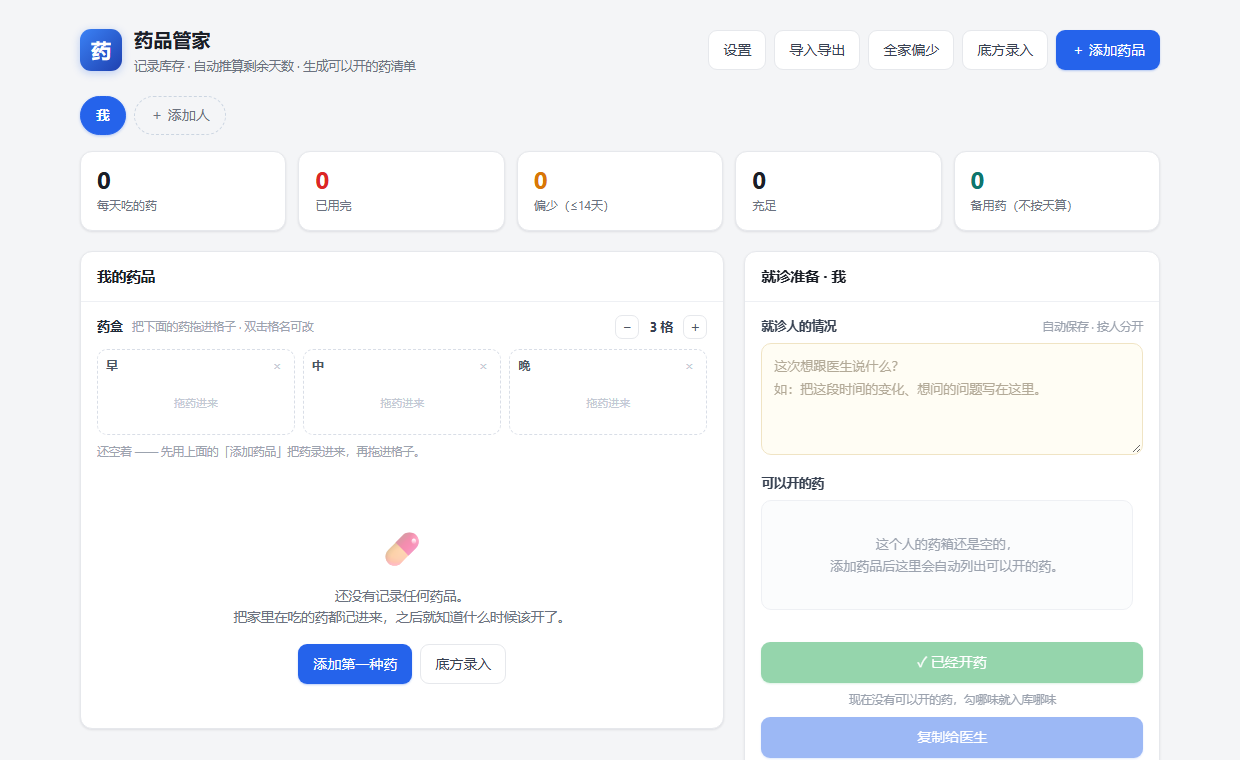
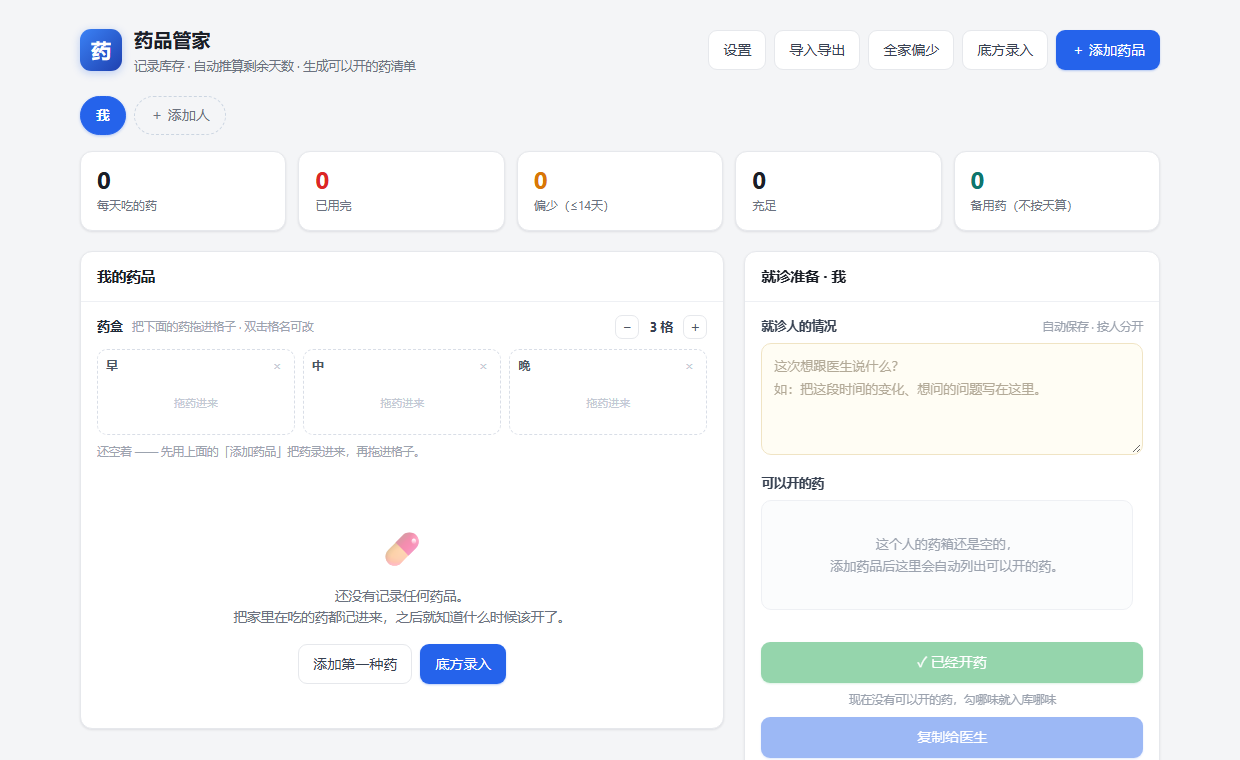
空状态主按钮换成底方录入；版本 3.6

Changed region(s): [[0.2145, 0.8474, 0.429, 0.9079]]

diff --git a/index.html b/index.html
@@ -2521,8 +2521,10 @@ function renderList(){
       + '<div class="big">💊</div>'
       + '<p>还没有记录任何药品。<br>把家里在吃的药都记进来，之后就知道什么时候该开了。</p>'
       + '<div class="row">'
-      + '<button class="btn primary" id="btnAdd2">添加第一种药</button>'
-      + '<button class="btn ghost" id="btnRx2">底方录入</button>'
+      /* ★ 2026-11-20 用户指定：空状态下「底方录入」才是蓝色主按钮，「添加第一种药」白底。
+         原来反过来了 —— 底方录入是更常用、也更省事的入口，应该是主色。 */
+      + '<button class="btn ghost" id="btnAdd2">添加第一种药</button>'
+      + '<button class="btn primary" id="btnRx2">底方录入</button>'
       + '</div></div>';
     const a = $('#btnAdd2'); if(a) a.addEventListener('click', function(){ openEditor(null); });
     const b2 = $('#btnRx2'); if(b2) b2.addEventListener('click', function(){ openRx(); });

diff --git a/_check/test_rxcap.py b/_check/test_rxcap.py
@@ -749,6 +749,16 @@ PROBE = r"""
   setMeds([]); save(); render();
   ck('空药箱里也加了「底方录入」（和「添加第一种药」并排）',
      !!(q('#btnRx2') && q('#btnAdd2')), '');
+  // ★ 2026-11-20 用户指定配色：「底方录入」才是蓝色主按钮，「添加第一种药」白底。
+  //   早先做反了，这里把主次钉死，免得下次调样式又换回去。
+  ck('★ 空状态里「底方录入」蓝、「添加第一种药」白底',
+     !!(q('#btnRx2') && q('#btnAdd2')
+        && q('#btnRx2').classList.contains('primary')
+        && q('#btnAdd2').classList.contains('ghost')
+        && !q('#btnRx2').classList.contains('ghost')
+        && !q('#btnAdd2').classList.contains('primary')),
+     (q('#btnRx2') ? q('#btnRx2').className : '?') + ' / ' +
+     (q('#btnAdd2') ? q('#btnAdd2').className : '?'));
   setMeds([{ id: uid(), name:'占位药', spec:'5mg', perDose:1, unit:'片', cycleDays:1, timesPerCycle:1,
              stockBase:30, stockDate:todayStr() }]);
   save(); render();

diff --git a/README.md b/README.md
@@ -1097,7 +1097,7 @@ python android/build.py
 ```
 index.html                程序本体：单文件，拷走就能跑
 tools/rx_local/rx_local.py  可选的「本地解析」工具：Windows 自带 OCR 把处方照片读成药行（不联网、不上传照片）
-_check/test_rxcap.py      自检脚本 —— 无头 Chrome 跑 312 项断言（口径、入库、文案、**「已经开药」的入库数量可逐味改写（默认值＝上限换算、留空＝默认、填 0＝不入库、提交按改过的数）**、**「可以开的药」按「剩余天数 < 一次最多能开几天」判、没填上限的挂星号并在清单下解释**、**勾选制（只动勾上的、卡片勾选框真能点）**、中间弹窗、底方解析、#rx= 链接跨实现往返、AI 说明防回潮（「没有后台 AI」口径仍在提示词里、标题点名三个 AI）、真药名自查、「添加药品」必填口径（上限已是选填）、底方「是谁的」+ 重复药去重、底方「对账依据」必须可见、**一次原生弹窗都不许有**，以及「README 说的和事实一致」）
+_check/test_rxcap.py      自检脚本 —— 无头 Chrome 跑 313 项断言（口径、入库、文案、**「已经开药」的入库数量可逐味改写（默认值＝上限换算、留空＝默认、填 0＝不入库、提交按改过的数）**、**「可以开的药」按「剩余天数 < 一次最多能开几天」判、没填上限的挂星号并在清单下解释**、**勾选制（只动勾上的、卡片勾选框真能点）**、中间弹窗、底方解析、#rx= 链接跨实现往返、AI 说明防回潮（「没有后台 AI」口径仍在提示词里、标题点名三个 AI）、真药名自查、「添加药品」必填口径（上限已是选填）、底方「是谁的」+ 重复药去重、底方「对账依据」必须可见、**一次原生弹窗都不许有**，以及「README 说的和事实一致」）
 _check/test_ins.py        医保 / 自购的自检 —— 149 条（三个加药入口都能分出医保，锁到哪天是算出来的、改设置全局生效、零迁移不给老存档上锁、锁着自己开、校准余量不碰锁、「已经开药」只动勾上的、备份往返不丢标记、**清单里每天吃的药真分成医保 / 自购两段且没标的一律归自购**、**清单只收「锁已开 + 数量确实不够」的药，锁着的进不来、解锁后自动进清单、那句「另外 N 味已经该开了」已拆掉不许回潮**、**没填上限的药挂星号 + 清单下解释，星号不进复制文本**、**人名后面那个数只数「剩不到 7 天」的味数且各有各的账**）
 _check/test_prn.py        备用药那一类的自检 —— 87 条（每天吃 / 备用药分得开、备用药不按天扣、不进续方清单、没有勾选框、表单必填口径两套、改类型时余量不被改写、导入导出 kind 不丢）
 _check/test_box.py        药盒的自检 —— 242 条（默认 3 格、格数 1~7、**每一格自己的删除叉**（删指定那格 / 空格不问 / 只剩一格不给删 / 两个叉不串）、格名可改、**真把 PointerEvent 打进页面**验拖拽全链路、跨格是搬不是复制、未入清单的筛选与双向拖拽、摆药台连拖三次能摆满三格、药名折行的真实布局高度、备用药拖不进、删药清盒、按人分开、导出导入不丢、脏数据清洗、确认框真的弹/按钮真的能点/Esc 与点遮罩都算取消、**分药模式**（格子上不再挤勾选框、右下角那颗按钮真能开窗、窗比通用弹窗宽、一味药一行且行高齐平、按药记所以同一味那几行一起变、**药盒里的格子和名字一点都不跟**、清空勾、不动库存、不进存档、空盒不挂按钮、**窗口上方那排成员真能换人换盒且窗不关**、**#box 真内边距所以按钮不再贴着边框**）、**右栏「就诊准备」真的是 sticky、贴窗口底停住**、**清单再长也只滚清单、按钮不被挤出去**、以及那条"类名撞车"体检）
@@ -1132,7 +1132,7 @@ LICENSE                   MIT，署名「人间小土鸡」
 改完程序想自己验一遍：
 
 ```bash
-python _check/test_rxcap.py       # 网页本体：312 项
+python _check/test_rxcap.py       # 网页本体：313 项
 python _check/test_ins.py         # 医保 / 自购（含清单两段分组、星号）：149 项
 python _check/test_prn.py         # 备用药那一类：87 项
 python _check/test_box.py         # 药盒 + 未入清单 + 摆药台 + 拖拽 + 折行 + 单格删除 + 分药模式 + 弹窗 + 右栏粘性：242 项
